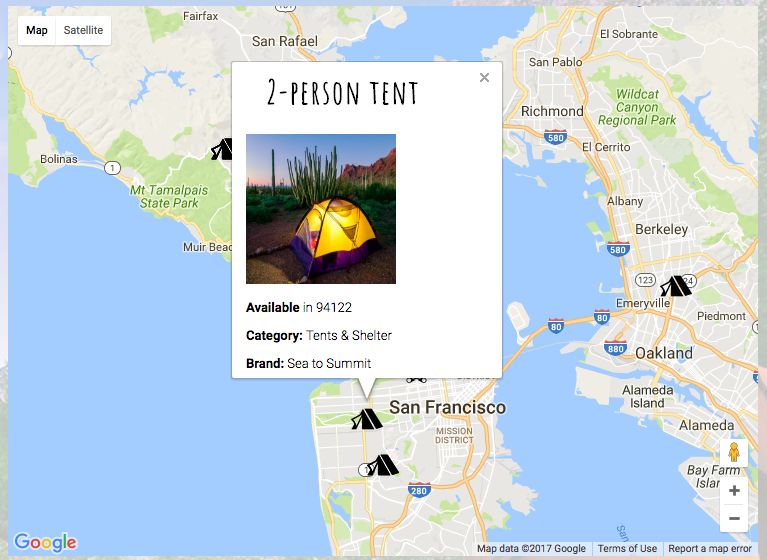
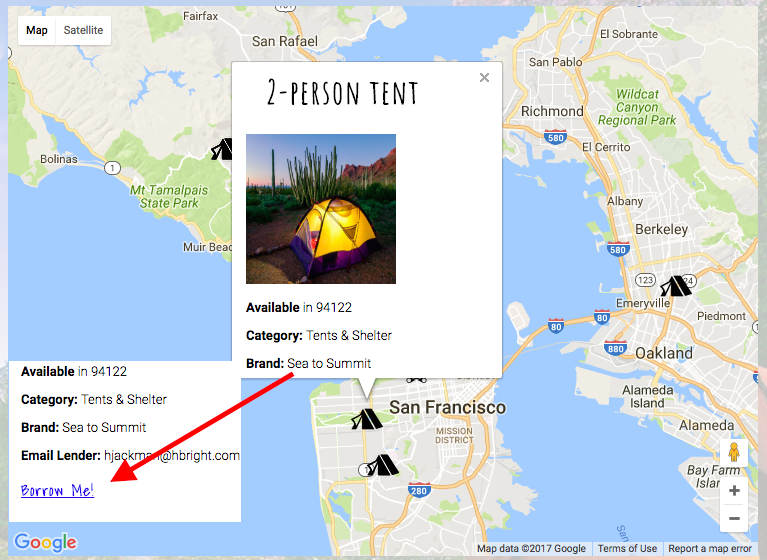
readme

Changed region(s): [[0.0, 0.6375, 0.3898, 0.9411]]

diff --git a/README.md b/README.md
@@ -3,7 +3,7 @@
 ![](https://github.com/shduttacheezit/inTents-Lending_HackbrightProject/blob/master/read-me-images/homepage.png?raw=true "Homepage")
 
 ### What is inTentsLending?
-inTentsLending is a web application that enables peer-to-peer sharing of camping gear. Lenders may upload their gear they would like to lend out.  Campers may search via their geolocation, brands, categories, keywords, and a different location and borrow desired items for a specific amount of time. This project's goal was to contribute to the information technology world's recent momentum in sharing economy, as collaborative consumption has become a great way to live and consume sustainably.
+inTentsLending is a web application that enables peer-to-peer sharing of camping gear. Often, campers, especially avid backpackers, do not have all the gear they need for a trip on their person. All the while, those who own camping gear often have their gear sitting in storage, unused. This project aimed to address that. Lenders may upload the gear they would like to lend out, while campers may search via their geolocation, brands, categories, keywords, and zipcode. Campers borrow desired items for a specific block of dates and confirm their return through the application. With the technology world's recent momentum in sharing economy, this application was inspired by collaborative consumption as a great way to live and consume sustainably, while also enjoying the wonderful outdoors.
 
 ## Table of Contents
 * [Technologies](#technologies)
@@ -26,13 +26,11 @@ The passwords are hashed with bcrypt before they are stored in the database.<br>
 Once a camper logs in, the camper can see their dashboard, which geolocates the user. From here, the camper can search for gear. The search results will take a gear keyword, brand, category, or a desired zipcode. <br>
 ![](https://github.com/shduttacheezit/inTents-Lending_HackbrightProject/blob/master/read-me-images/camper_dashboard.png?raw=true "Camper Dashboard")<br>
 The camper can click on each result icon to get basic info on the gear item in an info window. Underneath the info, there is the link to borrow. <br>
-![](https://github.com/shduttacheezit/inTents-Lending_HackbrightProject/blob/master/read-me-images/GoogleMap_infowindow.png?raw=true "Infowindow")
-![](https://github.com/shduttacheezit/inTents-Lending_HackbrightProject/blob/master/read-me-images/borrow_box.png?raw=true "Borrow")<br>
-The camper inputs the dates they would like to borrow the gear. They can then view their other borrowed gear in carousel, and return from there. <br>
+![](https://github.com/shduttacheezit/inTents-Lending_HackbrightProject/blob/master/read-me-images/GoogleMap_infowindow.png?raw=true "Infowindow")<br>
+The camper inputs the dates they would like to borrow the gear. They can then view their other borrowed gear in a photo carousel, and return from there. <br>
 ![](https://github.com/shduttacheezit/inTents-Lending_HackbrightProject/blob/master/read-me-images/rental_dates.png?raw=true "Rental Dates")
 ![](https://github.com/shduttacheezit/inTents-Lending_HackbrightProject/blob/master/read-me-images/rentals_carousel.png?raw=true "All Rentals")<br>
 The user could also go to the "Your Gear" tab and return their gear from there. <br>
-![](https://github.com/shduttacheezit/inTents-Lending_HackbrightProject/blob/master/read-me-images/return_option.png?raw=true "Return")<br>
 ![](https://github.com/shduttacheezit/inTents-Lending_HackbrightProject/blob/master/read-me-images/return_complete.png?raw=true "Return")<br>
 When the lender logs in, their dashboard consists of an option to upload new equipment, <br>
 ![](https://github.com/shduttacheezit/inTents-Lending_HackbrightProject/blob/master/read-me-images/lender_dashboard.png?raw=true "Lender Dashboard")<br>
